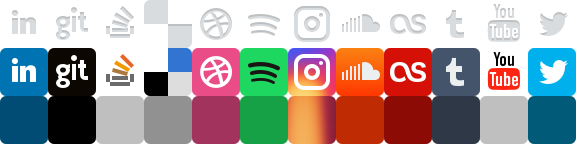
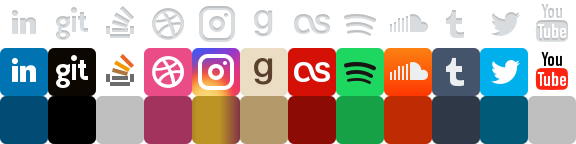
General update

diff --git a/css/style.min.css b/css/style.min.css
@@ -1,1 +1,1 @@
-a,hr{padding:0}.ir,article,aside,figure,footer,header,hgroup,hr,nav,section{display:block}.clearfix:after,.hidden,.invisible{visibility:hidden}abbr,address,article,aside,audio,b,blockquote,body,caption,cite,code,dd,del,dfn,div,dl,dt,em,fieldset,figure,footer,form,h1,h2,h3,h4,h5,h6,header,hgroup,html,i,iframe,img,ins,kbd,label,legend,li,mark,menu,nav,object,ol,p,pre,q,samp,section,small,span,strong,sub,sup,table,tbody,td,tfoot,th,thead,time,tr,ul,var,video{margin:0;border:0;outline:0;padding:0;font-size:100%;vertical-align:baseline;background:0 0}ins,mark{background-color:#ff9;color:#000}sub,sup{font-size:smaller}ol,ul{margin-left:30px}nav ul{list-style:none}blockquote,q{quotes:none}blockquote:after,blockquote:before,q:after,q:before{content:'';content:none}a{margin:0;font-size:100%;vertical-align:baseline;background:0 0}ins{text-decoration:none}mark{font-style:italic;font-weight:700}del{text-decoration:line-through}abbr[title],dfn[title]{border-bottom:1px dotted #000;cursor:help}hr{height:1px;border:0;border-top:1px solid #ccc;margin:1em 0}input,select{vertical-align:middle}body{font:13px sans-serif;line-height:1.22}table{border-collapse:collapse;border-spacing:0;font:100%}input,select,textarea{font:99% sans-serif}.soon,strong,th{font-weight:700}code,kbd,pre,samp{font-family:monospace,sans-serif}body,input,select,textarea{color:#444}h1,h2,h3,h4,h5,h6{font-weight:700;text-rendering:optimizeLegibility}a:active,a:hover{outline:0}a,a:active,a:visited{color:#607890}a:hover{color:#036}ol{list-style-type:decimal}small{font-size:85%}td,td img{vertical-align:top}sub{vertical-align:sub}sup{vertical-align:super}pre{padding:15px;white-space:pre;white-space:pre-wrap;white-space:pre-line;word-wrap:break-word}.ie6 input,input[type=radio]{vertical-align:text-bottom}input[type=checkbox]{vertical-align:bottom}button,input[type=button],input[type=submit],label{cursor:pointer}::-moz-selection{background:#f90;color:#fff;text-shadow:none}::selection{background:#f90;color:#fff;text-shadow:none}a:link{-webkit-tap-highlight-color:#f90}button{width:auto;overflow:visible}.ie7 img{-ms-interpolation-mode:bicubic}.ir{direction:ltr;text-indent:-999em;overflow:hidden;background-repeat:no-repeat}.hidden{display:none}.visuallyhidden{position:absolute!important;clip:rect(1px 1px 1px 1px);clip:rect(1px,1px,1px,1px)}.clearfix:after{content:".";display:block;height:0;clear:both}* html .clearfix{height:1%}.clearfix{display:block}body,html{width:100%;height:100%}html{-webkit-font-smoothing:antialiased;background:url(../img/bg.png) #edf1f2}body{position:relative;min-width:320px;min-height:540px;text-align:center;font-family:'Yanone Kaffeesatz',arial,sans-serif;background:url(../img/shimmer-bg.png) top center no-repeat;color:#7d7f80}.middlr,.soon{position:absolute;width:100%}header{display:none}.middlr{height:0;overflow:visible}.middlr.main{top:50%}.middlr.secondary{top:75%}.soon{top:-67px;height:134px;line-height:1.2;vertical-align:middle;color:#fff}.soon p{position:relative;top:0;width:245px;height:100px;margin:0 auto;font-size:128px;line-height:100px;text-transform:uppercase;text-shadow:#bbbebf 0 5px 0,rgba(0,0,0,.25) 0 5px 5px;-webkit-transition:all 100ms ease-in-out;transition:all 100ms ease-in-out}.soon p:hover{position:relative;top:3px;text-shadow:#bbbebf 0 2px 0,rgba(0,0,0,.25) 0 2px 2px}.soon small{top:0;margin-top:5px;display:block;font-size:24px;text-shadow:#a5a7a8 0 1px 0,#a5a7a8 0 2px 0,rgba(0,0,0,.25) 0 2px 5px}.ie7 .soon p,.ie7 .soon small,.ie8 .soon p,.ie8 .soon small{color:#7d7f80}.ie7 .soon p:hover,.ie8 .soon p:hover{top:0}.content aside{position:absolute;top:-50px;width:100%;height:100px}.content aside p{font-size:22px}.socialist{width:204px;margin:5px auto;overflow:hidden;list-style:none inside}.socialist li,.socialist li a{background-color:transparent;background-image:url(../img/socialist-bg.png);background-repeat:no-repeat}.socialist li{margin:5px;border-radius:2px;box-shadow:#bfbfbf 0 0 2px;display:block;float:left;list-style-type:none;background-color:#bfbfbf;background-position:-288px -48px;-webkit-transition:box-shadow 100ms ease-in-out;transition:box-shadow 100ms ease-in-out}.socialist li:hover{box-shadow:#bfbfbf 0 0 4px}.socialist li:active{box-shadow:#bfbfbf 0 0 1px}.socialist li a{position:relative;top:-2px;width:24px;height:24px;display:inline-block;direction:ltr;text-indent:-9999px;-webkit-transition:top 100ms ease-in-out;transition:top 100ms ease-in-out}.socialist li:hover a{top:-4px}.socialist .active a,.socialist li:active a{top:-1px}.socialist .linkedin a{background-position:0 0}.socialist .linkedin:hover a{background-position:0 -24px}.socialist .linkedin:hover{box-shadow:rgba(0,76,117,.75) 0 0 4px;background-position:0 -48px}.socialist .github a{background-position:-24px 0}.socialist .github:hover a{background-position:-24px -24px}.socialist .github:hover{box-shadow:rgba(0,0,0,.5) 0 0 4px;background-position:-24px -48px}.socialist .stackoverflow a{background-position:-48px 0}.socialist .stackoverflow:hover a{background-position:-48px -24px}.socialist .stackoverflow:hover{background-position:-48px -48px}.socialist .delicious a{background-position:-72px 0}.socialist .delicious:hover a{background-position:-72px -24px}.socialist .delicious:hover{box-shadow:rgba(145,145,145,.75) 0 0 4px;background-position:-72px -48px}.socialist .dribbble a{background-position:-96px 0}.socialist .dribbble:hover a{background-position:-96px -24px}.socialist .dribbble:hover{box-shadow:rgba(161,51,93,.75) 0 0 4px;background-position:-96px -48px}.socialist .spotify a{background-position:-120px 0}.socialist .spotify:hover a{background-position:-120px -24px}.socialist .spotify:hover{box-shadow:rgba(22,161,71,.75) 0 0 4px;background-position:-120px -48px}.socialist .instagram a{background-position:-144px 0}.socialist .instagram:hover a{background-position:-144px -24px}.socialist .instagram:hover{box-shadow:rgba(223,51,128,.75) 0 0 4px;background-position:-144px -48px}.socialist .soundcloud a{background-position:-168px 0}.socialist .soundcloud:hover a{background-position:-168px -24px}.socialist .soundcloud:hover{box-shadow:rgba(191,43,2,.75) 0 0 4px;background-position:-168px -48px}.socialist .lastfm a{background-position:-192px 0}.socialist .lastfm:hover a{background-position:-192px -24px}.socialist .lastfm:hover{box-shadow:rgba(140,11,4,.75) 0 0 4px;background-position:-192px -48px}.socialist .tumblr a{background-position:-216px 0}.socialist .tumblr:hover a{background-position:-216px -24px}.socialist .tumblr:hover{box-shadow:rgba(46,56,71,.75) 0 0 4px;background-position:-216px -48px}.socialist .youtube a{background-position:-240px 0}.socialist .youtube:hover a{background-position:-240px -24px}.socialist .youtube:hover{background-position:-240px -48px}.socialist .twitter a{background-position:-264px 0}.socialist .twitter:hover a{background-position:-264px -24px}.socialist .twitter:hover{box-shadow:rgba(0,90,120,.75) 0 0 4px;background-position:-264px -48px}@media (-webkit-min-device-pixel-ratio:2),(min-resolution:192dpi){html{background-image:url(../img/bg@2x.png);background-size:100px}body{background-image:url(../img/shimmer-bg@2x.png);background-size:640px 320px}.socialist li,.socialist li a{background-image:url(../img/socialist-bg@2x.png);background-size:288px 72px}}@media screen and (max-device-width:480px){html{-webkit-text-size-adjust:none;-ms-text-size-adjust:none}}@media screen and (max-device-width:480px) and (orientation:portrait){body{min-height:416px}.middlr.main{top:33%}.middlr.secondary{top:75%}}@media screen and (max-device-width:480px) and (orientation:landscape){body{min-height:268px}.middlr.main{top:25%}.middlr.secondary{top:66%}.soon{-webkit-transform:scale(.5);transform:scale(.5)}}
+abbr,address,article,aside,audio,b,blockquote,body,caption,cite,code,dd,del,dfn,div,dl,dt,em,fieldset,figure,footer,form,h1,h2,h3,h4,h5,h6,header,hgroup,html,i,iframe,img,ins,kbd,label,legend,li,mark,menu,nav,object,ol,p,pre,q,samp,section,small,span,strong,sub,sup,table,tbody,td,tfoot,th,thead,time,tr,ul,var,video{margin:0;border:0;outline:0;padding:0;font-size:100%;vertical-align:baseline;background:0 0}article,aside,figure,footer,header,hgroup,nav,section{display:block}nav ul{list-style:none}blockquote,q{quotes:none}blockquote:after,blockquote:before,q:after,q:before{content:'';content:none}a{margin:0;padding:0;font-size:100%;vertical-align:baseline;background:0 0}ins{background-color:#ff9;color:#000;text-decoration:none}mark{background-color:#ff9;color:#000;font-style:italic;font-weight:700}del{text-decoration:line-through}abbr[title],dfn[title]{border-bottom:1px dotted #000;cursor:help}table{border-collapse:collapse;border-spacing:0}hr{display:block;height:1px;border:0;border-top:1px solid #ccc;margin:1em 0;padding:0}input,select{vertical-align:middle}body{font:13px sans-serif;line-height:1.22}table{font-size:inherit;font:100%}input,select,textarea{font:99% sans-serif}code,kbd,pre,samp{font-family:monospace,sans-serif}body,input,select,textarea{color:#444}h1,h2,h3,h4,h5,h6{font-weight:700;text-rendering:optimizeLegibility}html{-webkit-font-smoothing:antialiased}a:active,a:hover{outline:0}a,a:active,a:visited{color:#607890}a:hover{color:#036}ul{margin-left:30px}ol{margin-left:30px;list-style-type:decimal}small{font-size:85%}strong,th{font-weight:700}td,td img{vertical-align:top}sub{vertical-align:sub;font-size:smaller}sup{vertical-align:super;font-size:smaller}pre{padding:15px;white-space:pre;white-space:pre-wrap;white-space:pre-line;word-wrap:break-word}input[type=radio]{vertical-align:text-bottom}input[type=checkbox]{vertical-align:bottom}.ie6 input{vertical-align:text-bottom}button,input[type=button],input[type=submit],label{cursor:pointer}::-moz-selection{background:#f90;color:#fff;text-shadow:none}::selection{background:#f90;color:#fff;text-shadow:none}a:link{-webkit-tap-highlight-color:#f90}button{width:auto;overflow:visible}.ie7 img{-ms-interpolation-mode:bicubic}.ir{display:block;direction:ltr;text-indent:-999em;overflow:hidden;background-repeat:no-repeat}.hidden{display:none;visibility:hidden}.visuallyhidden{position:absolute!important;clip:rect(1px 1px 1px 1px);clip:rect(1px,1px,1px,1px)}.invisible{visibility:hidden}.clearfix:after{content:".";display:block;height:0;clear:both;visibility:hidden}.clearfix{display:inline-block}* html .clearfix{height:1%}.clearfix{display:block}body,html{width:100%;height:100%}html{background:#edf1f2 url(../img/bg.png)}body{position:relative;min-width:320px;min-height:540px;text-align:center;font-family:'Yanone Kaffeesatz',arial,sans-serif;background:transparent url(../img/shimmer-bg.png) top center no-repeat;color:#7d7f80}header{display:none}.middlr{position:absolute;width:100%;height:0;overflow:visible}.middlr.main{top:50%}.middlr.secondary{top:75%}.soon{position:absolute;top:-67px;width:100%;height:134px;font-weight:700;line-height:1.2;vertical-align:middle;color:#fff}.soon p{position:relative;top:0;width:245px;height:100px;margin:0 auto;font-size:128px;line-height:100px;text-transform:uppercase;text-shadow:#bbbebf 0 5px 0,rgba(0,0,0,.25) 0 5px 5px;-webkit-transition:all .1s ease-in-out;transition:all .1s ease-in-out}.soon p:hover{position:relative;top:3px;text-shadow:#bbbebf 0 2px 0,rgba(0,0,0,.25) 0 2px 2px}.soon small{top:0;margin-top:5px;display:block;font-size:24px;text-shadow:#a5a7a8 0 1px 0,#a5a7a8 0 2px 0,rgba(0,0,0,.25) 0 2px 5px}.ie7 .soon p,.ie7 .soon small,.ie8 .soon p,.ie8 .soon small{color:#7d7f80}.ie7 .soon p:hover,.ie8 .soon p:hover{top:0}.content aside{position:absolute;top:-50px;width:100%;height:100px}.content aside p{font-size:22px}.socialist{width:204px;margin:5px auto;overflow:hidden;list-style:none inside}.socialist li,.socialist li a{background-color:transparent;background-image:url(../img/socialist-bg.png);background-repeat:no-repeat}.socialist li{margin:5px;border-radius:2px;box-shadow:#bfbfbf 0 0 2px;display:block;float:left;list-style-type:none;background-color:#bfbfbf;background-position:-288px -48px;-webkit-transition:box-shadow .1s ease-in-out;transition:box-shadow .1s ease-in-out}.socialist li:hover{box-shadow:#bfbfbf 0 0 4px}.socialist li:active{box-shadow:#bfbfbf 0 0 1px}.socialist li a{position:relative;top:-2px;width:24px;height:24px;display:inline-block;direction:ltr;text-indent:-9999px;-webkit-transition:top .1s ease-in-out;transition:top .1s ease-in-out}.socialist li:hover a{top:-4px}.socialist .active a,.socialist li:active a{top:-1px}.socialist .linkedin a{background-position:0 0}.socialist .linkedin:hover a{background-position:0 -24px}.socialist .linkedin:hover{box-shadow:rgba(0,76,117,.75) 0 0 4px;background-position:0 -48px}.socialist .github a{background-position:-24px 0}.socialist .github:hover a{background-position:-24px -24px}.socialist .github:hover{box-shadow:rgba(0,0,0,.5) 0 0 4px;background-position:-24px -48px}.socialist .stackoverflow a{background-position:-48px 0}.socialist .stackoverflow:hover a{background-position:-48px -24px}.socialist .stackoverflow:hover{background-position:-48px -48px}.socialist .dribbble a{background-position:-72px 0}.socialist .dribbble:hover a{background-position:-72px -24px}.socialist .dribbble:hover{box-shadow:rgba(161,51,93,.75) 0 0 4px;background-position:-72px -48px}.socialist .instagram a{background-position:-96px 0}.socialist .instagram:hover a{background-position:-96px -24px}.socialist .instagram:hover{box-shadow:rgba(223,51,128,.75) 0 0 4px;background-position:-96px -48px}.socialist .goodreads a{background-position:-120px 0}.socialist .goodreads:hover a{background-position:-120px -24px}.socialist .goodreads:hover{box-shadow:rgba(180,154,106,.75) 0 0 4px;background-position:-120px -48px}.socialist .lastfm a{background-position:-144px 0}.socialist .lastfm:hover a{background-position:-144px -24px}.socialist .lastfm:hover{box-shadow:rgba(140,11,4,.75) 0 0 4px;background-position:-144px -48px}.socialist .spotify a{background-position:-168px 0}.socialist .spotify:hover a{background-position:-168px -24px}.socialist .spotify:hover{box-shadow:rgba(22,161,71,.75) 0 0 4px;background-position:-168px -48px}.socialist .soundcloud a{background-position:-192px 0}.socialist .soundcloud:hover a{background-position:-192px -24px}.socialist .soundcloud:hover{box-shadow:rgba(191,43,2,.75) 0 0 4px;background-position:-192px -48px}.socialist .tumblr a{background-position:-216px 0}.socialist .tumblr:hover a{background-position:-216px -24px}.socialist .tumblr:hover{box-shadow:rgba(46,56,71,.75) 0 0 4px;background-position:-216px -48px}.socialist .twitter a{background-position:-240px 0}.socialist .twitter:hover a{background-position:-240px -24px}.socialist .twitter:hover{box-shadow:rgba(0,90,120,.75) 0 0 4px;background-position:-240px -48px}.socialist .youtube a{background-position:-264px 0}.socialist .youtube:hover a{background-position:-264px -24px}.socialist .youtube:hover{background-position:-264px -48px}@media (-webkit-min-device-pixel-ratio:2),(min-resolution:192dpi){html{background-image:url(../img/bg@2x.png);background-size:100px}body{background-image:url(../img/shimmer-bg@2x.png);background-size:640px 320px}.socialist li,.socialist li a{background-image:url(../img/socialist-bg@2x.png);background-size:288px 72px}}@media screen and (max-device-width:480px){html{-webkit-text-size-adjust:none;-ms-text-size-adjust:none}}@media screen and (max-device-width:480px) and (orientation:portrait){body{min-height:416px}.middlr.main{top:33%}.middlr.secondary{top:75%}}@media screen and (max-device-width:480px) and (orientation:landscape){body{min-height:268px}.middlr.main{top:25%}.middlr.secondary{top:66%}.soon{-webkit-transform:scale(.5);transform:scale(.5)}}

diff --git a/index.html b/index.html
@@ -1,82 +1,99 @@
 <!doctype html>
 <html lang="en" class="no-js">
-<head>
-  <meta charset="utf-8">
-  <!--[if IE]><![endif]-->
 
-  <meta http-equiv="X-UA-Compatible" content="IE=edge,chrome=1">
-  <title>javi.io | soon …ish</title>
-  <meta name="author" content="Javier Zapata">
-  <meta name="description" content="This is the personal website of Javier Zapata, a web designer and developer from Madrid, Spain. Soon available!">
-  <link rel="image_src" href="img/image_src.png">
+  <head>
+    <meta charset="utf-8">
+    <!--[if IE]><![endif]-->
 
-  <meta name="viewport" content="width=device-width, minimum-scale=1.0, maximum-scale=1.0, user-scalable=no">
+    <meta http-equiv="X-UA-Compatible" content="IE=edge,chrome=1">
+    <title>javi.io | soon …ish</title>
+    <meta name="author" content="Javier Zapata">
+    <meta name="description"
+      content="This is the personal website of Javier Zapata, a web designer and developer from Madrid, Spain. Soon available!">
+    <link rel="image_src" href="img/image_src.png">
 
-  <meta name="apple-mobile-web-app-capable" content="yes">
-  <meta name="apple-mobile-web-app-status-bar-style" content="black">
+    <meta name="viewport" content="width=device-width, minimum-scale=1.0, maximum-scale=1.0, user-scalable=no">
 
-  <link href="//fonts.googleapis.com/css?family=Yanone+Kaffeesatz:regular,bold" rel="stylesheet" type="text/css">
+    <meta name="apple-mobile-web-app-capable" content="yes">
+    <meta name="apple-mobile-web-app-status-bar-style" content="black">
 
-  <link rel="shortcut icon" type="image/x-icon" href="favicon.ico">
-  <link rel="apple-touch-icon-precomposed" href="apple-touch-icon-precomposed.png">
+    <link href="//fonts.googleapis.com/css?family=Yanone+Kaffeesatz:regular,bold" rel="stylesheet" type="text/css">
 
-  <link rel="stylesheet" href="css/style.min.css">
+    <link rel="shortcut icon" type="image/x-icon" href="favicon.ico">
+    <link rel="apple-touch-icon-precomposed" href="apple-touch-icon-precomposed.png">
 
-  <script>
-    (function(i,s,o,g,r,a,m){i['GoogleAnalyticsObject']=r;i[r]=i[r]||function(){
-    (i[r].q=i[r].q||[]).push(arguments)},i[r].l=1*new Date();a=s.createElement(o),
-    m=s.getElementsByTagName(o)[0];a.async=1;a.src=g;m.parentNode.insertBefore(a,m)
-    })(window,document,'script','//www.google-analytics.com/analytics.js','ga');
+    <link rel="stylesheet" href="css/style.min.css">
 
-    ga('create', 'UA-7695020-1', 'auto');
-    ga('require', 'displayfeatures');
-    ga('send', 'pageview');
-  </script>
-</head>
-<!--[if lt IE 7 ]> <body class="ie6"> <![endif]-->
-<!--[if IE 7 ]>    <body class="ie7"> <![endif]-->
-<!--[if IE 8 ]>    <body class="ie8"> <![endif]-->
-<!--[if IE 9 ]>    <body class="ie9"> <![endif]-->
-<!--[if (gt IE 9)|!(IE)]><!--> <body> <!--<![endif]-->
+    <script>
+      (function (i, s, o, g, r, a, m) {
+        i['GoogleAnalyticsObject'] = r; i[r] = i[r] || function () {
+          (i[r].q = i[r].q || []).push(arguments)
+        }, i[r].l = 1 * new Date(); a = s.createElement(o),
+          m = s.getElementsByTagName(o)[0]; a.async = 1; a.src = g; m.parentNode.insertBefore(a, m)
+      })(window, document, 'script', '//www.google-analytics.com/analytics.js', 'ga');
 
-  <div class="container">
-    <header>
-      <h1>javi.io</h1>
-    </header>
+      ga('create', 'UA-7695020-1', 'auto');
+      ga('require', 'displayfeatures');
+      ga('send', 'pageview');
+    </script>
+  </head>
+  <!--[if lt IE 7 ]> <body class="ie6"> <![endif]-->
+  <!--[if IE 7 ]>    <body class="ie7"> <![endif]-->
+  <!--[if IE 8 ]>    <body class="ie8"> <![endif]-->
+  <!--[if IE 9 ]>    <body class="ie9"> <![endif]-->
+  <!--[if (gt IE 9)|!(IE)]><!-->
 
-    <div class="content">
+  <body>
+    <!--<![endif]-->
 
-      <div class="middlr main">
-        <div class="soon">
-          <p>soon</p>
-          <small>…ish</small>
+    <div class="container">
+      <header>
+        <h1>javi.io</h1>
+      </header>
+
+      <div class="content">
+
+        <div class="middlr main">
+          <div class="soon">
+            <p>soon</p>
+            <small>…ish</small>
+          </div>
         </div>
-      </div>
 
-      <div class="middlr secondary">
-        <aside>
-          <p>meanwhile, you can stalk me</p>
-          <ul class="socialist">
-            <li class="linkedin"><a href="https://es.linkedin.com/in/javierzapata82" title="Join my network on LinkedIn">LinkedIn</a></li>
-            <li class="github"><a href="https://github.com/jzfgo" title="Fork me on GitHub">GitHub</a></li>
-            <li class="stackoverflow"><a href="http://stackoverflow.com/users/252705/jzfgo" title="View my answers at Stack Overflow">Stack Overflow</a></li>
-            <li class="delicious"><a href="https://del.icio.us/nkm82" title="Become a fan on delicious">delicious</a></li>
-            <li class="dribbble"><a href="https://dribbble.com/javi" title="Follow me on Dribbble">Dribbble</a></li>
-            <li class="spotify"><a href="https://open.spotify.com/user/nkm82" title="Follow me on Spotify">Spotify</a></li>
-            <li class="instagram"><a href="https://www.instagram.com/jzfgo" title="Follow me on Instagram">Instagram</a></li>
-            <li class="soundcloud"><a href="https://soundcloud.com/nkm" title="Follow me on Soundcloud">Soundcloud</a></li>
-            <li class="lastfm"><a href="http://www.last.fm/user/nkm82" title="Be my friend on Last.fm">Last.fm</a></li>
-            <li class="tumblr"><a href="http://nkm.tumblr.com/" title="Follow me on Tumblr.">Tumblr.</a></li>
-            <li class="youtube"><a href="https://www.youtube.com/user/nkm82" title="Be my friend on YouTube">YouTube</a></li>
-            <li class="twitter"><a href="https://twitter.com/jzfgo" title="Follow me on Twitter.">Twitter</a></li>
-          </ul>
-        </aside>
-      </div>
+        <div class="middlr secondary">
+          <aside>
+            <p>meanwhile, you can stalk me</p>
+            <ul class="socialist">
+              <li class="linkedin"><a href="https://es.linkedin.com/in/jzfgo"
+                  title="Join my network on LinkedIn">LinkedIn</a></li>
+              <li class="github"><a href="https://github.com/jzfgo" title="Fork me on GitHub">GitHub</a></li>
+              <li class="stackoverflow"><a href="http://stackoverflow.com/users/252705/jzfgo"
+                  title="View my answers at Stack Overflow">Stack Overflow</a></li>
+              <li class="dribbble"><a href="https://dribbble.com/javi" title="Follow me on Dribbble">Dribbble</a></li>
+              <li class="instagram"><a href="https://www.instagram.com/jzfgo"
+                  title="Follow me on Instagram">Instagram</a></li>
+              <li class="goodreads"><a href="https://www.goodreads.com/user/show/76016247-javier-zapata"
+                  title="Add me as a friend in Goodreads">Goodreads</a></li>
+              <li class="lastfm"><a href="http://www.last.fm/user/nkm82" title="Be my friend on Last.fm">Last.fm</a>
+              </li>
+              <li class="spotify"><a href="https://open.spotify.com/user/nkm82" title="Follow me on Spotify">Spotify</a>
+              </li>
+              <li class="soundcloud"><a href="https://soundcloud.com/jzfgo"
+                  title="Follow me on Soundcloud">Soundcloud</a>
+              </li>
+              <li class="tumblr"><a href="https://jzfgo.tumblr.com/" title="Follow me on Tumblr.">Tumblr.</a></li>
+              <li class="twitter"><a href="https://twitter.com/jzfgo" title="Follow me on Twitter.">Twitter</a></li>
+              <li class="youtube"><a href="https://www.youtube.com/user/nkm82"
+                  title="Be my friend on YouTube">YouTube</a></li>
+            </ul>
+          </aside>
+        </div>
 
-    </div> <!-- end of #content -->
+      </div> <!-- end of #content -->
 
-  </div> <!-- end of #container -->
-</body>
+    </div> <!-- end of #container -->
+  </body>
+
 </html>
 <!-- Powered by http://html5boilerplate.com/ -->
 <!-- Some symbols by David Ferreira - http://www.wpzoom.com -->

diff --git a/css/style.css b/css/style.css
@@ -221,45 +221,45 @@ header { display:none; }
 .socialist .stackoverflow:hover a     { background-position:-48px -24px; }
 .socialist .stackoverflow:hover       { background-position:-48px -48px; }
 
-.socialist .delicious a            { background-position:-72px 0; }
-.socialist .delicious:hover a      { background-position:-72px -24px; }
-.socialist .delicious:hover {
-  box-shadow:rgba(145,145,145,.75) 0 0 4px;
+.socialist .dribbble a            { background-position:-72px 0; }
+.socialist .dribbble:hover a      { background-position:-72px -24px; }
+.socialist .dribbble:hover {
+  box-shadow:rgba(161,51,93,.75) 0 0 4px;
   background-position:-72px -48px;
 }
 
-.socialist .dribbble a            { background-position:-96px 0; }
-.socialist .dribbble:hover a      { background-position:-96px -24px; }
-.socialist .dribbble:hover {
-  box-shadow:rgba(161,51,93,.75) 0 0 4px;
+.socialist .instagram a            { background-position:-96px 0; }
+.socialist .instagram:hover a      { background-position:-96px -24px; }
+.socialist .instagram:hover {
+  box-shadow:rgba(223,51,128,.75) 0 0 4px;
   background-position:-96px -48px;
 }
 
-.socialist .spotify a            { background-position:-120px 0; }
-.socialist .spotify:hover a      { background-position:-120px -24px; }
-.socialist .spotify:hover {
-  box-shadow:rgba(22,161,71,.75) 0 0 4px;
+.socialist .goodreads a            { background-position:-120px 0; }
+.socialist .goodreads:hover a      { background-position:-120px -24px; }
+.socialist .goodreads:hover {
+  box-shadow:rgba(180,154,106,.75) 0 0 4px;
   background-position:-120px -48px;
 }
 
-.socialist .instagram a            { background-position:-144px 0; }
-.socialist .instagram:hover a      { background-position:-144px -24px; }
-.socialist .instagram:hover {
-  box-shadow:rgba(223,51,128,.75) 0 0 4px;
+.socialist .lastfm a           { background-position:-144px 0; }
+.socialist .lastfm:hover a     { background-position:-144px -24px; }
+.socialist .lastfm:hover {
+  box-shadow:rgba(140,11,4,.75) 0 0 4px;
   background-position:-144px -48px;
 }
 
-.socialist .soundcloud a        { background-position:-168px 0; }
-.socialist .soundcloud:hover a  { background-position:-168px -24px; }
-.socialist .soundcloud:hover {
-  box-shadow:rgba(191,43,2,.75) 0 0 4px;
+.socialist .spotify a            { background-position:-168px 0; }
+.socialist .spotify:hover a      { background-position:-168px -24px; }
+.socialist .spotify:hover {
+  box-shadow:rgba(22,161,71,.75) 0 0 4px;
   background-position:-168px -48px;
 }
 
-.socialist .lastfm a           { background-position:-192px 0; }
-.socialist .lastfm:hover a     { background-position:-192px -24px; }
-.socialist .lastfm:hover {
-  box-shadow:rgba(140,11,4,.75) 0 0 4px;
+.socialist .soundcloud a        { background-position:-192px 0; }
+.socialist .soundcloud:hover a  { background-position:-192px -24px; }
+.socialist .soundcloud:hover {
+  box-shadow:rgba(191,43,2,.75) 0 0 4px;
   background-position:-192px -48px;
 }
 
@@ -270,16 +270,16 @@ header { display:none; }
   background-position:-216px -48px;
 }
 
-.socialist .youtube a           { background-position:-240px 0; }
-.socialist .youtube:hover a     { background-position:-240px -24px; }
-.socialist .youtube:hover       { background-position:-240px -48px; }
-
-.socialist .twitter a            { background-position:-264px 0; }
-.socialist .twitter:hover a      { background-position:-264px -24px; }
+.socialist .twitter a            { background-position:-240px 0; }
+.socialist .twitter:hover a      { background-position:-240px -24px; }
 .socialist .twitter:hover {
   box-shadow:rgba(0,90,120,.75) 0 0 4px;
-  background-position:-264px -48px;
+  background-position:-240px -48px;
 }
+
+.socialist .youtube a           { background-position:-264px 0; }
+.socialist .youtube:hover a     { background-position:-264px -24px; }
+.socialist .youtube:hover       { background-position:-264px -48px; }
 
 
 /* Grade-A Mobile Browsers */
@@ -325,4 +325,3 @@ header { display:none; }
             transform:scale(.5);
   }
 }
-
